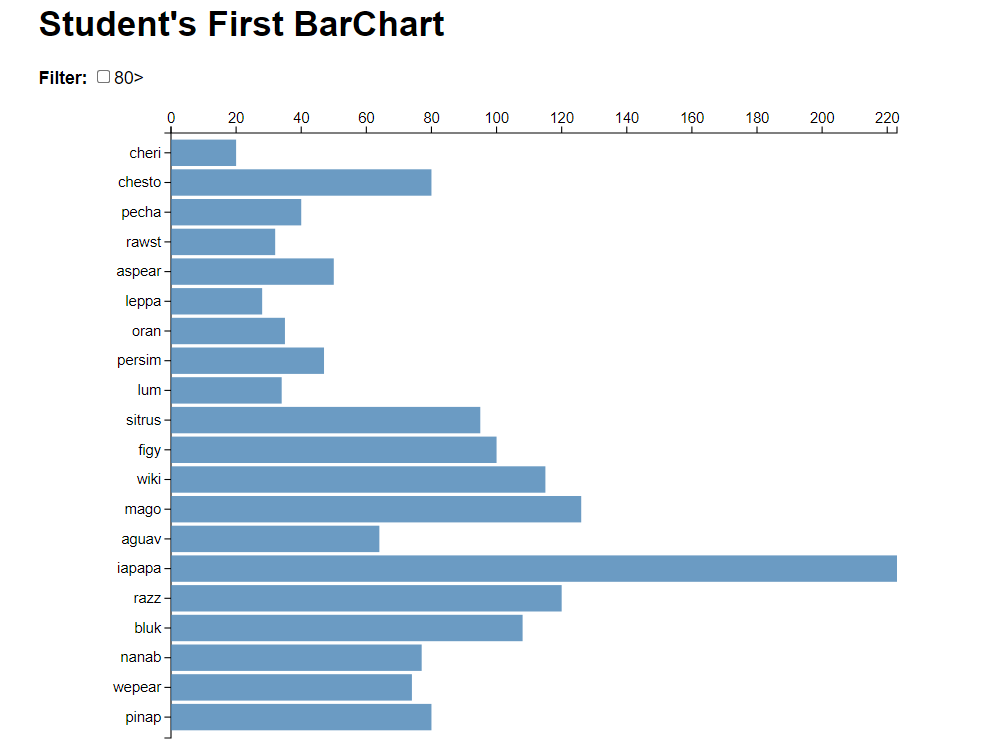
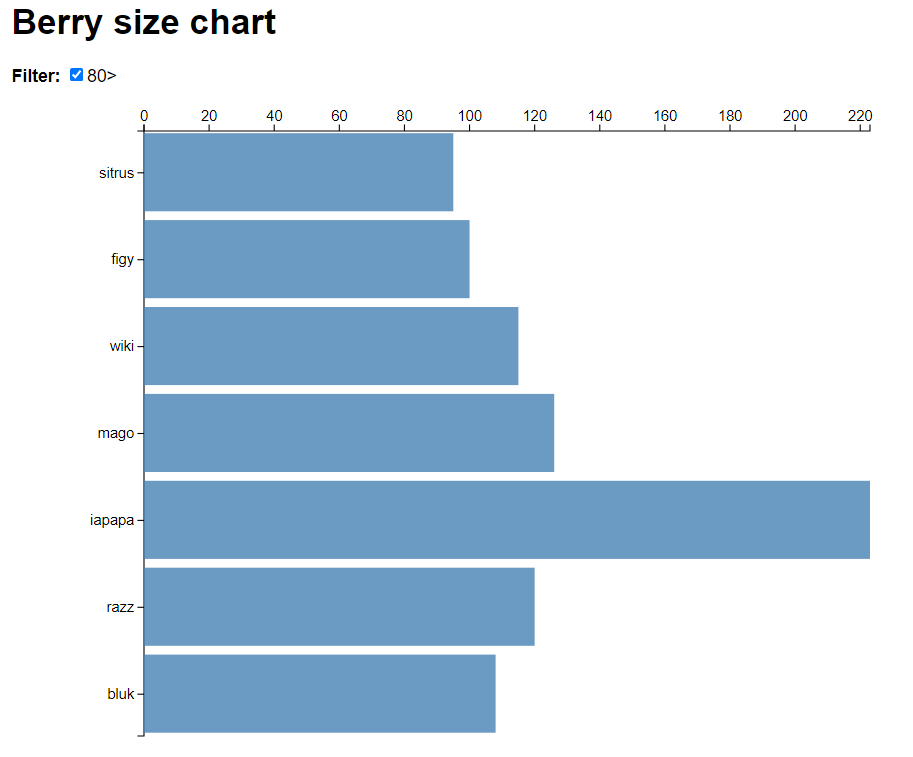
Afbeeldingen toegevoegd

Changed region(s): [[0.092, 0.1227, 0.9507, 0.9813], [0.0, 0.0, 0.46, 0.0613], [0.0, 0.092, 0.1533, 0.1227]]

diff --git a/d3-tutorial/bar-chart.html b/d3-tutorial/bar-chart.html
@@ -8,7 +8,7 @@
     <link rel="stylesheet" href="./style.css">
 </head>
 <body>
-    <h1>Student's First BarChart</h1>
+    <h1>Berry size chart</h1>
     <div>
         <strong>Filter:</strong>
         <label><input type="checkbox" name="US" value="1" id="filter-us-only" />80></label>
